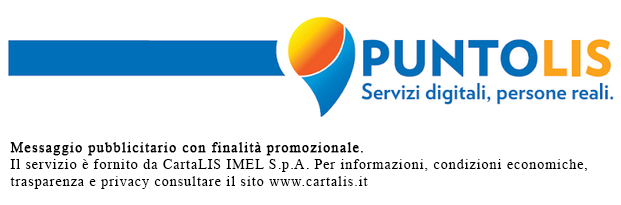
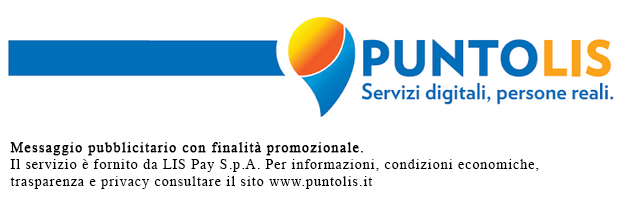
Switch da CARTALIS a PUNTOLIS, solo in descrizioni a frontend

Changed region(s): [[0.2448, 0.761, 0.9485, 0.9073]]

diff --git a/woocommerce-payment-cartalis.php b/woocommerce-payment-cartalis.php
@@ -83,15 +83,15 @@ function init_wc_cartalis_payment_gateway() {
                     'title' => __('Title'),
                     'type' => 'text',
                     'description' => __('Payment title in checkout page'),
-                    'default' => 'CARTALIS',
+                    'default' => 'PUNTOLIS',
                     'desc_tip' => true,
                 ),
                 'description' => array(
                     'title' => __('Description'),
                     'type' => 'textarea',
                     'css' => 'width:500px;',
-                    'default' => __('Pay with CARTALIS'),
-                    'description' => __('Pay with CARTALIS'),
+                    'default' => __('Pay with PUNTOLIS'),
+                    'description' => __('Pay with PUNTOLIS'),
                 ),
                 'mandante_prefisso' => array(
                     'title' => __('Mandante, prefisso'),
@@ -197,11 +197,11 @@ function init_wc_cartalis_payment_gateway() {
                 //IT'S IMPORTANT FOR SENDING ODER CONFIRMATION EMAIL
                 $order->update_status( 'on-hold', __( 'Awaiting offline payment', 'wc-gateway-offline' ) );
                 //Set order status needed by flow
-                $order->update_status( apply_filters( 'woocommerce_bacs_process_payment_order_status', $this->cartalis_status_new_order, $order ), __( 'Awaiting CARTALIS payment', 'woocommerce' ) );
+                $order->update_status( apply_filters( 'woocommerce_bacs_process_payment_order_status', $this->cartalis_status_new_order, $order ), __( 'Awaiting PUNTOLIS payment', 'woocommerce' ) );
 
                 //Add order note
                 // The text for the note
-                $note = '<a href="'.get_site_url().'/wp-content/uploads/deposit/'.$order_id.'.pdf" >'.__('Bollettino per il pagamento nelle tabaccherie PUNTOLIS, edicola o bar convenzionati con CartaLIS IMEL S.p.A.').'</a>';
+                $note = '<a href="'.get_site_url().'/wp-content/uploads/deposit/'.$order_id.'.pdf" >'.__('Bollettino per il pagamento nelle tabaccherie PUNTOLIS, edicola o bar convenzionati con LIS Pay S.p.A.').'</a>';
 
                 // Add the note
                 $order->add_order_note( $note, 1, 0 );
@@ -230,7 +230,7 @@ function init_wc_cartalis_payment_gateway() {
                 $this->generateBarcode( $order);
                 $barcodeHttp = get_site_url().'/wp-content/uploads/deposit/'.$order_id.'.pdf';
                 echo '<h2 class="woocommerce-order-details__title">'.__('Pagamento').'</h2>'
-                    . '<p>'.__('Hai scelto di pagare con CARTALIS.').'</p>'
+                    . '<p>'.__('Hai scelto di pagare con PUNTOLIS.').'</p>'
                     . '<p>'.__('In allegato alla email di conferma ordine troverai il bollettino per effettuare il pagamento presso un qualsiasi punto LIS.').'</p>'
                     . '<p><a href="'.$barcodeHttp.'" target="_blank">'.__('Puoi scaricare il bollettino anche cliccando quì').'</a></p>';
             }
@@ -310,7 +310,7 @@ function init_wc_cartalis_payment_gateway() {
                 $barcodeHttp = '//'.$_SERVER['HTTP_HOST'].'/wp-content/uploads/barcode/'.$order_id.'.png';
 
                 echo '<h3>Pagamento</h3>'
-                    . '<p>'.__('Pagamento tramite CARTALIS. <br />Codice a barre per eseguire il pagamento').':</p>'
+                    . '<p>'.__('Pagamento tramite PUNTOLIS. <br />Codice a barre per eseguire il pagamento').':</p>'
                     . get_post_meta( $order_id, 'cartalisBarcode', true )
                     . '<p>'
                     . '<a href="'.$barcodeHttp.'" target="_blank"><img src="'.$barcodeHttp.'" width="300px"/></a>'
@@ -422,9 +422,9 @@ function init_wc_cartalis_payment_gateway() {
             $barcode = $this->uploadDir['basedir'].'/barcode/'.$order_id.'.png';
             $filename = $this->uploadDir['basedir'].'/deposit/'.$order_id.'.pdf';
 
-            $text_top = utf8_decode("Vai in una tabaccheria PUNTOLIS, edicola o bar convenzionati con CartaLIS IMEL S.p.A., puoi pagare in modo comodo e veloce semplicemente mostrando il codice a barre riportato sotto.");
+            $text_top = utf8_decode("Vai in una tabaccheria PUNTOLIS, edicola o bar convenzionati con LIS Pay S.p.A., puoi pagare in modo comodo e veloce semplicemente mostrando il codice a barre riportato sotto.");
             $text_top1 = utf8_decode("Il pagamento può essere effettuato con carte di credito e prepagate VISA e MASTERCARD, con carte PagoBancomat o contanti.");
-            $text_top2 = utf8_decode("Cerca il PUNTOLIS più vicino a te su www.cartalis.it");
+            $text_top2 = utf8_decode("Cerca il PUNTOLIS più vicino a te su www.puntolis.it");
 
             require( __DIR__ . '/ws_fpdf.php');
             $pdf = new ws_fpdf();
